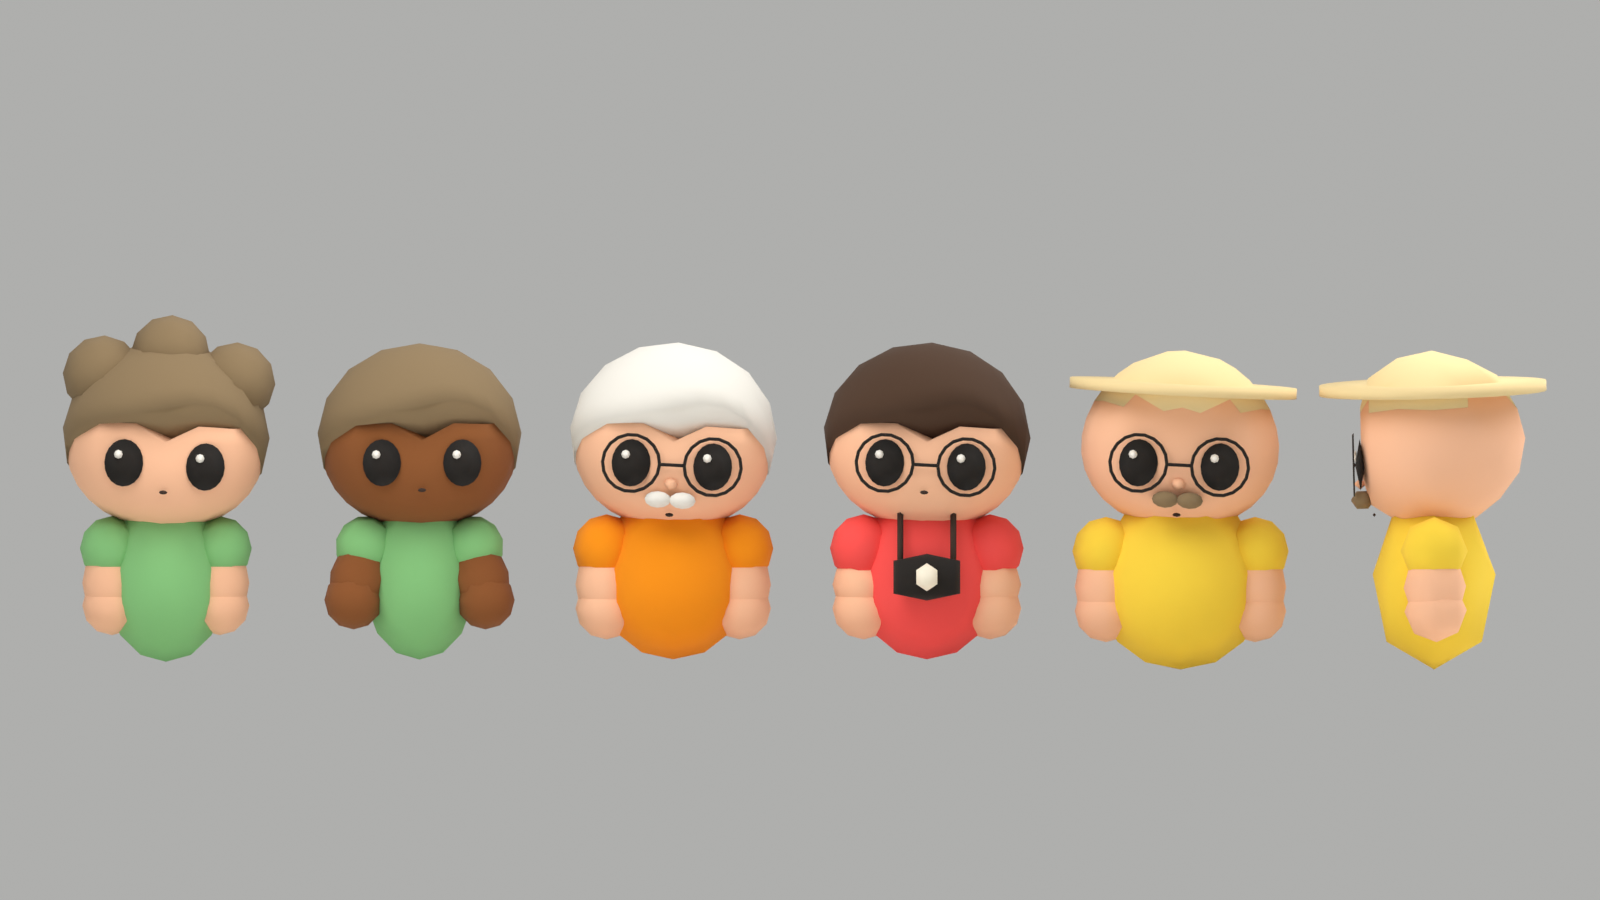
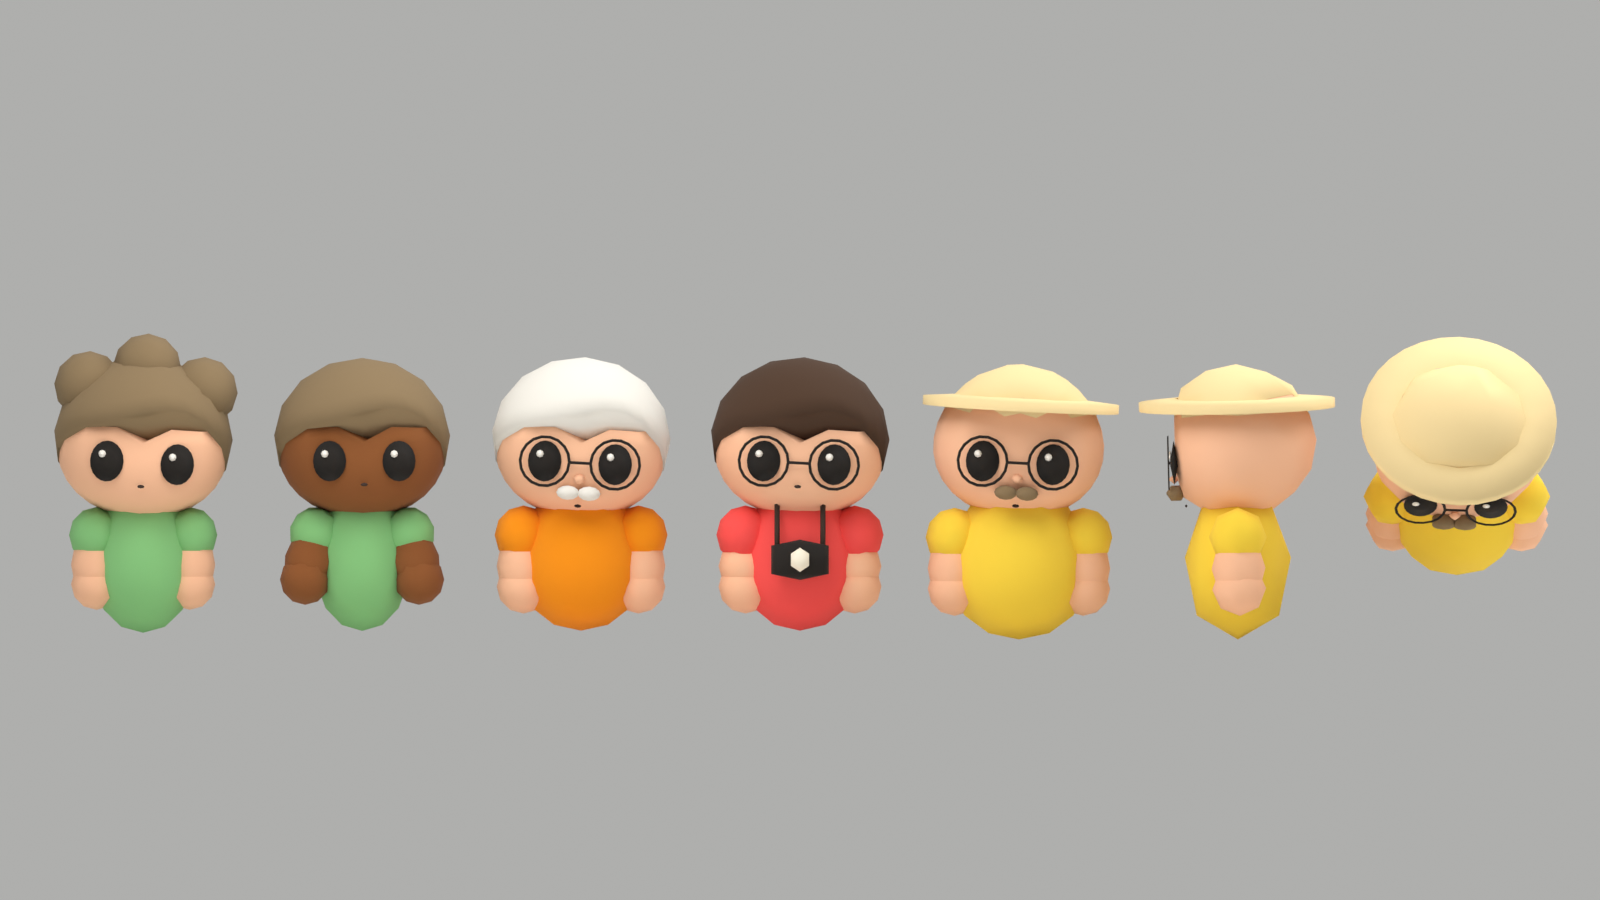
fix(models): make senior sunhat readable from above

Changed region(s): [[0.0312, 0.3422, 1.0, 0.7467]]

diff --git a/tools/blender/visitors/verify.py b/tools/blender/visitors/verify.py
@@ -15,7 +15,7 @@ sys.path.insert(0, str(Path(__file__).parent))
 from build import build_group, merge_compatible_parts, validate_glb
 from palette import build_material, load_palette
 from parts import game_to_blender
-from human import _derive_proportions, shoulder_leg_points, shoulder_seat_height, SEATED_LEG_FORWARD_RATIO, STROLLER_HANDLE_FORWARD, STROLLER_HANDLE_HEIGHT_RATIO, SUNHAT_BRIM_CENTER_HEIGHT_RATIO, SUNHAT_BRIM_DIAMETER_TO_HEAD_WIDTH, SUNHAT_BRIM_HALF_THICKNESS_RATIO, SUNHAT_CROWN_TOP_RATIO
+from human import _derive_proportions, shoulder_leg_points, shoulder_seat_height, SEATED_LEG_FORWARD_RATIO, STROLLER_HANDLE_FORWARD, STROLLER_HANDLE_HEIGHT_RATIO, SUNHAT_BRIM_CENTER_HEIGHT_RATIO, SUNHAT_BRIM_DIAMETER_TO_HEAD_WIDTH, SUNHAT_BRIM_HALF_THICKNESS_RATIO, SUNHAT_CROWN_TOP_RATIO, SUNHAT_BRIM_INNER_RADIUS_RATIO, SUNHAT_BRIM_SLOPE_DEG
 
 FLOOR_TOLERANCE = 0.004
 ARM_TOLERANCE = 0.003
@@ -29,6 +29,10 @@ SUNHAT_DIAMETER_MAX_TO_HEAD_WIDTH = 1.25
 SUNHAT_DIAMETER_TOLERANCE = 0.01
 SUNHAT_SEATING_TOLERANCE = 0.003
 SUNHAT_CROWN_GAP_TOLERANCE_RATIO = 0.02
+SUNHAT_MIN_CROWN_RELIEF_RATIO = 0.30
+SUNHAT_TOP_NORMAL_MIN_UP = 0.5
+SUNHAT_TOP_NORMAL_BAND_RATIO = 0.01
+SUNHAT_COMPONENT_MIN_HEIGHT_RATIO = 0.2
 SURFACE_VERTICAL_NORMAL_TOLERANCE = 0.00001
 SURFACE_COVERAGE_AREA_TOLERANCE_RATIO = 0.0001
 
@@ -99,17 +103,8 @@ def verify_sunhat_contact(description, meshes):
         skull_points, skull_triangles, _ = mesh_surface(skull, inverse)
         skull_indices, _ = max(mesh_components(skull, skull_points), key=lambda component: len(component[0]))
         skull_triangles = [triangle for triangle in skull_triangles if all(index in skull_indices for index in triangle)]
-        crown_parts = []
-        for obj in meshes:
-            if obj.parent != head or obj.get("zooTint") != "none":
-                continue
-            points, triangles, _ = mesh_surface(obj, inverse)
-            for indices, _ in mesh_components(obj, points):
-                if max(points[index].z for index in indices) <= radius * 0.8:
-                    continue
-                crown_parts.append((obj, points, triangles, indices))
-        assert len(crown_parts) == 1, f"missing sunhat crown for {prefix}"
-        obj, points, triangles, indices = crown_parts[0]
+        (obj, points, indices), _ = sunhat_components(head, meshes)
+        _, triangles, _ = mesh_surface(obj, inverse)
         assert obj.parent == skull.parent, f"sunhat does not follow head for {prefix}"
         crown_triangles = [triangle for triangle in triangles if all(index in indices for index in triangle)]
         gap = maximum_vertical_surface_gap(
@@ -422,6 +417,25 @@ def verify_child_eye_clearance(description, meshes, clip):
                     ), f"child covers parent eyes during {clip}: {tuple(point)}"
 
 
+def sunhat_components(head, meshes):
+    """Identify disconnected hat surfaces even after their untinted bucket merges."""
+    radius = head["zooHeadRadius"]
+    inverse = head.matrix_world.inverted()
+    crowns, brims = [], []
+    for obj in meshes:
+        if obj.parent != head or obj.get("zooTint") != "none":
+            continue
+        points = [inverse @ obj.matrix_world @ vertex.co for vertex in obj.data.vertices]
+        for indices, _ in mesh_components(obj, points):
+            component = (obj, points, indices)
+            if max(math.hypot(points[index].x, points[index].y) for index in indices) > radius * 1.04 * 1.1:
+                brims.append(component)
+            elif min(points[index].z for index in indices) > radius * SUNHAT_COMPONENT_MIN_HEIGHT_RATIO:
+                crowns.append(component)
+    assert len(crowns) == len(brims) == 1, "ambiguous or missing sunhat crown/brim"
+    return crowns[0], brims[0]
+
+
 def verify_sunhat_fit(description, meshes):
     for person in description["persons"]:
         if person.get("hair") != "sunhat":
@@ -431,12 +445,10 @@ def verify_sunhat_fit(description, meshes):
         head_radius = head["zooHeadRadius"]
         head_width_radius = head_radius * 1.04
         inverse = head.matrix_world.inverted()
-        face = next(
-            obj for obj in meshes
-            if obj.parent == head and obj["zooPerson"] == person["index"] and obj["zooTint"] == "none"
-        )
-        points = [inverse @ face.matrix_world @ vertex.co for vertex in face.data.vertices]
-        brim_outer = [point for point in points if math.hypot(point.x, point.y) > head_width_radius * 1.1]
+        skull = bpy.data.objects[prefix + "head_mesh"]
+        assert skull in meshes and skull.parent == head and skull["zooTint"] == "skin", "missing explicit sunhat skull"
+        (crown_mesh, crown_points, crown_indices), (_, brim_points, brim_indices) = sunhat_components(head, meshes)
+        brim_outer = [brim_points[index] for index in brim_indices if math.hypot(brim_points[index].x, brim_points[index].y) > head_width_radius * 1.1]
         assert brim_outer, f"missing sunhat brim for {prefix}"
         brim_radius = max(math.hypot(point.x, point.y) for point in brim_outer)
         diameter_ratio = brim_radius / head_width_radius
@@ -448,11 +460,23 @@ def verify_sunhat_fit(description, meshes):
         )
         center_height = head_radius * SUNHAT_BRIM_CENTER_HEIGHT_RATIO
         half_thickness = head_radius * SUNHAT_BRIM_HALF_THICKNESS_RATIO
+        inner_radius = head_radius * SUNHAT_BRIM_INNER_RADIUS_RATIO
+        inner_top = max(brim_points[index].z for index in brim_indices if math.hypot(brim_points[index].x, brim_points[index].y) < inner_radius + SUNHAT_SEATING_TOLERANCE)
+        outer_top = max(point.z for point in brim_outer)
+        assert outer_top <= inner_top + SURFACE_VERTICAL_NORMAL_TOLERANCE, f"sunhat brim rises outward for {prefix}"
+        slope_drop = (brim_radius - inner_radius) * math.tan(math.radians(SUNHAT_BRIM_SLOPE_DEG))
         assert all(
-            abs(point.z - center_height) <= half_thickness + SUNHAT_SEATING_TOLERANCE
+            min(abs(point.z - (center_height + sign * half_thickness - slope_drop)) for sign in (-1, 1)) <= SUNHAT_SEATING_TOLERANCE
             for point in brim_outer
-        ), f"sunhat brim is not flat and regularly thick for {prefix}"
-        crown_top = max(point.z for point in points)
+        ), f"sunhat brim is not regularly thick and downward sloping for {prefix}"
+        crown_top = max(crown_points[index].z for index in crown_indices)
+        assert crown_top - inner_top >= head_radius * SUNHAT_MIN_CROWN_RELIEF_RATIO, f"sunhat crown lacks relief above brim for {prefix}"
+        normal_matrix = (inverse @ crown_mesh.matrix_world).to_3x3().inverted().transposed()
+        crown_mesh.data.update()
+        top_indices = [index for index in crown_indices if crown_points[index].z >= crown_top - head_radius * SUNHAT_TOP_NORMAL_BAND_RATIO]
+        assert all((normal_matrix @ crown_mesh.data.vertices[index].normal).normalized().z > SUNHAT_TOP_NORMAL_MIN_UP for index in top_indices), f"sunhat crown top normals point downward for {prefix}"
+        assert all((normal_matrix @ polygon.normal).normalized().z > 0
+                   for polygon in crown_mesh.data.polygons if any(index in top_indices for index in polygon.vertices)), f"sunhat crown top face normals point downward for {prefix}"
         assert abs(crown_top - head_radius * SUNHAT_CROWN_TOP_RATIO) <= SUNHAT_SEATING_TOLERANCE, (
             f"sunhat crown does not stay seated on its head for {prefix}"
         )

diff --git a/tools/blender/visitors/test_poses.py b/tools/blender/visitors/test_poses.py
@@ -15,7 +15,7 @@ from mathutils import Vector
 VISITORS_DIR = Path(__file__).parent
 sys.path.insert(0, str(VISITORS_DIR))
 from build import EXPECTED_CLIP_NAMES, build_group, _count_triangles_per_person  # noqa: E402
-from human import game_to_blender, HAIR_SEGMENTS  # noqa: E402
+from human import game_to_blender, HAIR_SEGMENTS, SUNHAT_BRIM_HALF_THICKNESS_RATIO, SUNHAT_BRIM_SLOPE_DEG, SUNHAT_CROWN_ABOVE_BRIM_RATIO  # noqa: E402
 from palette import build_material, load_palette  # noqa: E402
 from verify import (  # noqa: E402
     CHILD_FOOT_MAX_SIDE_OFFSET_RATIO,
@@ -25,6 +25,7 @@ from verify import (  # noqa: E402
     verify_child_foot_lateral_offset,
     verify_source_junctions,
     verify_sunhat_contact,
+    verify_sunhat_fit,
     maximum_vertical_surface_gap,
     upper_surface_triangles,
 )
@@ -214,6 +215,7 @@ def _test_rest(description, root):
                     "sleeve has wrong tint or pivot")
             _assert(arm["zooTint"] == hand["zooTint"] == "skin", "forearm or hand is not skin")
         if person.get("hair") == "sunhat":
+            radius = bpy.data.objects[f"p{idx}_head"]["zooHeadRadius"]
             brim = bpy.data.objects[f"p{idx}_hat_brim_mesh"]
             head = bpy.data.objects[f"p{idx}_head_mesh"]
             brim_width = _bounds(brim)[1].x - _bounds(brim)[0].x
@@ -228,9 +230,18 @@ def _test_rest(description, root):
             )
             crown = bpy.data.objects[f"p{idx}_hair_mesh"]
             _assert(brim["zooTint"] == crown["zooTint"] == "none", "hat changes colour with the hair")
-            _assert(len({round(vertex.co.z, 6) for vertex in brim.data.vertices}) == 2,
-                    "hat brim is not flat with constant thickness")
-            _assert(len(brim.data.vertices) == 64, "hat brim circular outline is too coarse")
+            rings = sorted({round(math.hypot(vertex.co.x, vertex.co.y), 6) for vertex in brim.data.vertices})
+            inner = [vertex.co for vertex in brim.data.vertices if abs(math.hypot(vertex.co.x, vertex.co.y) - rings[0]) < EPSILON]
+            outer = [vertex.co for vertex in brim.data.vertices if abs(math.hypot(vertex.co.x, vertex.co.y) - rings[-1]) < EPSILON]
+            _assert(len(inner) == 16 and len(outer) == 64, "hat brim circular outline is too coarse")
+            thickness = max(point.z for point in outer) - min(point.z for point in outer)
+            _assert(abs(thickness - 2 * radius * SUNHAT_BRIM_HALF_THICKNESS_RATIO) < EPSILON,
+                    "hat brim does not have constant thickness")
+            drop = max(point.z for point in inner) - max(point.z for point in outer)
+            _assert(abs(drop - (rings[-1] - rings[0]) * math.tan(math.radians(SUNHAT_BRIM_SLOPE_DEG))) < EPSILON,
+                    "hat brim does not slope downward at its specified angle")
+            _assert(abs(max(vertex.co.z for vertex in crown.data.vertices) - max(point.z for point in inner)
+                        - radius * SUNHAT_CROWN_ABOVE_BRIM_RATIO) < EPSILON, "hat crown relief changed")
             _assert(brim.data.uv_layers.active.data[0].uv == crown.data.uv_layers.active.data[0].uv,
                     "hat crown and brim do not share one palette colour")
             surface = bmesh.new()
@@ -239,6 +250,54 @@ def _test_rest(description, root):
                     and surface.calc_volume(signed=True) > 0, "hat crown is open or inverted")
             surface.free()
     print(f"[zoo-refuge] {description['archetypeId']}: rest geometry and budget passed {counts}")
+
+
+def _test_sunhat_shape_guards(description, root):
+    meshes = [obj for obj in root.children_recursive if obj.type == "MESH"]
+    verify_sunhat_fit(description, list(reversed(meshes)))
+    for person in description["persons"]:
+        if person.get("hair") != "sunhat":
+            continue
+        prefix = f"p{person['index']}_"
+        radius = bpy.data.objects[prefix + "head"]["zooHeadRadius"]
+        crown = bpy.data.objects[prefix + "hair_mesh"]
+        brim = bpy.data.objects[prefix + "hat_brim_mesh"]
+        for corruption, message in (("low", "lacks relief"), ("upturn", "rises outward"), ("normals", "normals point downward")):
+            points = [vertex.co.copy() for vertex in crown.data.vertices]
+            brim_points = [vertex.co.copy() for vertex in brim.data.vertices]
+            try:
+                if corruption == "low":
+                    for vertex in crown.data.vertices:
+                        vertex.co.z = min(vertex.co.z, radius * 0.7)
+                elif corruption == "upturn":
+                    for vertex in brim.data.vertices:
+                        if math.hypot(vertex.co.x, vertex.co.y) > radius:
+                            vertex.co.z += radius * 0.2
+                else:
+                    surface = bmesh.new()
+                    surface.from_mesh(crown.data)
+                    bmesh.ops.reverse_faces(surface, faces=list(surface.faces))
+                    surface.to_mesh(crown.data)
+                    surface.free()
+                verify_sunhat_fit(description, meshes)
+            except AssertionError as error:
+                _assert(message in str(error), str(error))
+            else:
+                raise AssertionError(f"sunhat guard accepts {corruption}")
+            finally:
+                if corruption == "normals":
+                    surface = bmesh.new()
+                    surface.from_mesh(crown.data)
+                    bmesh.ops.reverse_faces(surface, faces=list(surface.faces))
+                    surface.to_mesh(crown.data)
+                    surface.free()
+                for vertex, point in zip(crown.data.vertices, points):
+                    vertex.co = point
+                for vertex, point in zip(brim.data.vertices, brim_points):
+                    vertex.co = point
+                crown.data.update()
+                brim.data.update()
+        verify_sunhat_fit(description, meshes)
 
 
 def _test_clips(description, root):
@@ -386,6 +445,7 @@ def main():
         root = build_group(description, palette, build_material(palette))
         bpy.context.view_layer.update()
         _test_rest(description, root)
+        _test_sunhat_shape_guards(description, root)
         _test_shoulder_clearance_guards(description, root)
         _test_faces(description)
         _test_clips(description, root)

diff --git a/tools/blender/visitors/human.py b/tools/blender/visitors/human.py
@@ -30,9 +30,13 @@ HAIR_RINGS = 5
 SEAT_HAIR_OVERLAP = 0.012
 SEATED_LEG_FORWARD_RATIO = 0.4
 SUNHAT_BRIM_DIAMETER_TO_HEAD_WIDTH = 1.15
-SUNHAT_BRIM_CENTER_HEIGHT_RATIO = 0.55
 SUNHAT_BRIM_HALF_THICKNESS_RATIO = 0.055
 SUNHAT_CROWN_TOP_RATIO = 0.945
+SUNHAT_CROWN_ABOVE_BRIM_RATIO = 0.40
+SUNHAT_BRIM_CENTER_HEIGHT_RATIO = SUNHAT_CROWN_TOP_RATIO - SUNHAT_CROWN_ABOVE_BRIM_RATIO - SUNHAT_BRIM_HALF_THICKNESS_RATIO
+SUNHAT_BRIM_SLOPE_DEG = 5.0
+SUNHAT_BRIM_INNER_RADIUS_RATIO = 0.75
+SUNHAT_BRIM_SEGMENTS = 32
 SUNHAT_CROWN_SURFACE_OFFSET_RATIO = 0.005
 SUNHAT_CROWN_MIN_SKULL_HEIGHT_RATIO = 0.30
 
@@ -440,12 +444,22 @@ def build_person(index, params, palette, material, parent_object):
             )
             uv = brim.data.uv_layers.active.data[0].uv.copy()
             vertices, faces = [], []
-            for height in (-SUNHAT_BRIM_HALF_THICKNESS_RATIO, SUNHAT_BRIM_HALF_THICKNESS_RATIO):
-                vertices.extend(game_to_blender([brim_radius * math.cos(2 * math.pi * i / 32),
-                                                p["head_r"] * (SUNHAT_BRIM_CENTER_HEIGHT_RATIO + height),
-                                                brim_radius * math.sin(2 * math.pi * i / 32)]) for i in range(32))
-            _join_rings(faces, 0, 32, 32, 32)
-            faces.extend((tuple(reversed(range(32))), tuple(range(32, 64))))
+            inner_radius = p["head_r"] * SUNHAT_BRIM_INNER_RADIUS_RATIO
+            top_height = p["head_r"] * (SUNHAT_BRIM_CENTER_HEIGHT_RATIO + SUNHAT_BRIM_HALF_THICKNESS_RATIO)
+            outer_height = top_height - (brim_radius - inner_radius) * math.tan(math.radians(SUNHAT_BRIM_SLOPE_DEG))
+            # The inner outline is hidden under the crown. Leave the invisible
+            # underside open to spend the budget on a smooth, full-size outer rim.
+            rings = ((inner_radius, top_height, SUNHAT_BRIM_SEGMENTS // 2),
+                     (brim_radius, outer_height, SUNHAT_BRIM_SEGMENTS),
+                     (brim_radius, outer_height - 2 * p["head_r"] * SUNHAT_BRIM_HALF_THICKNESS_RATIO, SUNHAT_BRIM_SEGMENTS))
+            for ring_radius, height, count in rings:
+                start = len(vertices)
+                vertices.extend(Vector((ring_radius * math.cos(2 * math.pi * i / count),
+                                        ring_radius * math.sin(2 * math.pi * i / count), height)) for i in range(count))
+                if start:
+                    _join_rings(faces, previous_start, previous_count, start, count)
+                previous_start, previous_count = start, count
+            faces = [tuple(reversed(face)) for face in faces]
             _replace_surface(brim, vertices, faces, uv)
             brim.parent = head
         elif hair_style in {"cap", "cap_backwards"}:

diff --git a/tools/blender/visitors/preview.py b/tools/blender/visitors/preview.py
@@ -22,6 +22,7 @@ TINT_COLORS = {
 FACE_PEOPLE = (3, 1, 0, 0, 0)
 DARKEST_SKIN = 0x8D552A
 LIGHT_SKIN = 0xFFC8A8
+HAT_PREVIEW_ELEVATION_DEG = 55.0
 
 
 def linear_channel(value):
@@ -71,7 +72,7 @@ def main():
     args = parser.parse_args(sys.argv[sys.argv.index("--") + 1:] if "--" in sys.argv else [])
     verify_game_colors()
     bpy.ops.wm.read_factory_settings(use_empty=True)
-    archetypes = ("shoulder-ride",) * 3 if args.shoulder else ARCHETYPES + (("retirees",) if args.faces else ())
+    archetypes = ("shoulder-ride",) * 3 if args.shoulder else ARCHETYPES + (("retirees", "retirees") if args.faces else ())
     for index, archetype in enumerate(archetypes):
         tint_index = min(index, len(ARCHETYPES) - 1)
         before = set(bpy.data.objects)
@@ -108,6 +109,8 @@ def main():
                 if obj.type == "MESH" and "_leg_" in obj.name:
                     obj.hide_render = True
             group.rotation_euler.z = math.radians(-90) if index == len(ARCHETYPES) else 0.0
+            if index == len(ARCHETYPES) + 1:
+                group.rotation_euler.x = math.radians(HAT_PREVIEW_ELEVATION_DEG)
             group.location = (0.0, 0.0, 0.0)
             scene = bpy.context.scene
             scene.frame_set(15)
@@ -117,7 +120,7 @@ def main():
             group.scale = (factor,) * 3
             bpy.context.view_layer.update()
             center = head.matrix_world.translation.copy()
-            group.location = Vector(((index - 2.5) * 1.30, 0.0, 1.25)) - center
+            group.location = Vector(((index - 3) * 1.30, 0.0, 1.25)) - center
 
     scene = bpy.context.scene
     duration = max(strip.frame_end for obj in bpy.data.objects if obj.animation_data
@@ -135,7 +138,7 @@ def main():
     camera = bpy.context.object
     camera.rotation_euler = (Vector((0.0, 0.0, target_height)) - camera.location).to_track_quat("-Z", "Y").to_euler()
     camera.data.type = "ORTHO"
-    camera.data.ortho_scale = 8.2 if args.faces else 6.5 if args.shoulder else 12.8
+    camera.data.ortho_scale = 9.5 if args.faces else 6.5 if args.shoulder else 12.8
     scene.camera = camera
     for location, energy, size in (((-3, -5, 8), 700, 8), ((6, 1, 6), 400, 7)):
         bpy.ops.object.light_add(type="AREA", location=location)
